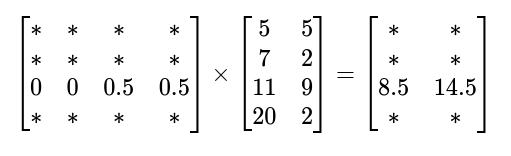
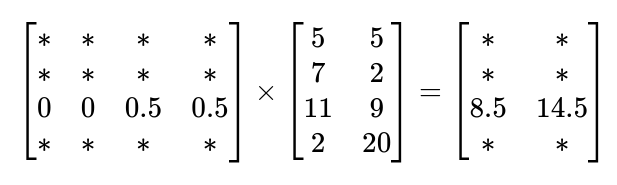
chaptre3

diff --git a/chapter3.md b/chapter3.md
@@ -25,13 +25,34 @@ The transformer's encoder is composed of many layers. In each layer, a sequence 
 1) A multi-head self-attention layer
 2) A fully connected feed-forward layer that is applied to each input embedding  
 
+<<<<<<< HEAD
 At the end of our encoder, we have output embeddings that maintain the same size as the inputs. They become more contextually aware. For example, if we refer to an "Apple phone", the word "Apple" will be updated to be more "company-like" and less "fruit-like".
 
 ![figure 2](visuals/chap3visuals/encoder.png)
 To gain a clear understanding of how it truly works, let's begin with the most important component: the self-attention layer.
 
+=======
+At the end of our encoder, we have output embeddings that maintain the same size as the inputs. They become more contextually aware. For exemple, if we refer to an "Apple phone",the word "Apple" will be updated at the end to be more "campany like" and less " fruit like".
+
+![figure 2](visuals/chap3visuals/encoder.png)
+To gain a clear understanding of how it truly works, let's begin with the first component.
+### Word Embeddings
+
+In Chapter 2, we learned that every word in our input sentence is tokenized, forming a tokens matrix of size (max_sentence_length, vocab_size). Next, we apply a pre-trained weighted matrix to the tokens matrix, transforming the tokenized text into vectors or token embeddings typically of 768 or 512 dimensions. Each dimension in these embeddings represents a distinct feature of the word, such as its fruitness.  
+
+The problem is that these new embedding vectors are completely invariant to the position of the word. Luckily, there is an easy trick to capture position information. Let's take a look.  
+
+### Positional Embeddings
+Positional embeddinds are based on a simple technique: we add to each token embedding a new vector position of equal size. This approach gives to each word its positional information within the sentence.  
+To create these vectors, we use sine and cosine functions, as illustrated below, where 'pos' represents the position of the word in the sentence, 'i' indicate the index in the vector position, and 'd_model' represents the embedding dimension.  
+There are several reasons why this method is useful: first, the periodicity of the functions helps in capturing the word's position; additionally, the output of sine and cosine falls between [-1,1], which is normalized. It won’t grow to an unmanageable numbers during calculations; furthermore, no additional training is required, as a unique representation is generated for each position.    
+
+
+![Figure 3](visuals/chap3visuals/positional_embeddings.png)   
+
+Now that we've encountered these concepts, we are ready to dive into the most important building bolck .
 ### Self-attention
-As we saw earlier, each token is individually represented by a vector of either 768 or 512 dimensions. The main idea behind self-attention is to use the entire sequence to compute a weighted average matrix that describes the relationships between each embedding and the other embeddings within the same sentence. As a result, we end up with embeddings that capture context more effectively.  
+As we saw earlier, each token is individually represented by a vector of either 768 or 512 dimensions. The main idea behind self-attention is to use the entire sequence to compute a weighted average matrix that describes the relationships between each token embedding and the other token embeddings within the same sentence. As a result, we end up with embeddings that capture context more effectively.  
 To do so, we use a technique called:
 
 #### the scaled dot product: 
@@ -45,9 +66,20 @@ There are four main steps to implement this mechanism :
 
 **2 )&nbsp;** Compute attention scores. we use the similarity function, which is the dot product of the embedding matrices. Query and Keys that are similar will have a large dot product,
 
+**1 )&nbsp;** Project each token embedding into three vectors, called:
+   - ***query :&nbsp;&nbsp;*** represents the token from which the attention mechanism is getting the information, it's used to compare against all the key vectors.
+   - ***key :&nbsp;&nbsp;***  tells the attention mechanism which parts of the sequence are important for understanding the query.  
+   - ***value :&nbsp;&nbsp;*** holds the informations (features) associated with each token in the sequence.    
+
+  At the end, we put together all the queue vectors into one matrix, and we do the same for the key and value vectors, resulting in three distinct matrices.
+  
+
+**2 )&nbsp;** Compute attention scores. we use the similarity fonction, which is the dot product of the Query and Key matrix. query and keys that are similar will have a large dot product,
+
+
  **3 )&nbsp;** To prevent dealing with large numbers, we normalize the variance of the attention scores by dividing them by the square root of the dimension of the keys  $\sqrt{d_k}$, and then we apply a softmax function to convert the column values into a probability distribution.   
 
-**4 )&nbsp;** Multiply the attention weights by the value vectors to obtain updated embeddings.
+**4 )&nbsp;** Multiply the attention weights by the Value matrix to obtain updated embeddings.
   
     
 $$
@@ -59,15 +91,15 @@ $$
 ![figure 3](visuals/chap3visuals/self-attention.png)
 #### To make it clearer, let's provide a simple example:
 
-Let's consider the following sentence: 'I love Apple iPhone.' We will represent it in a two-dimensional embedding, where the first dimension represents the fruitiness of the word, and the second represents the technology. 
+Let's consider the following sentence: 'I love Apple iPhones.' We will represent it in a two-dimensional embedding space, where the first dimension represents the fruitiness of the word, and the second represents the technology. 
 
 
-|||
-|--------------|-------------|
-| **I** | [5&emsp;5] | 
-| **Love** | [7&emsp;2] |
-| **Apple** | [11&emsp;9] |
-| **Phones** | [2&emsp;20] |
+||Fruitness|Technology|
+|--------------|-------------|-------------|
+| **I** | 5 | 5|
+| **Love** | 7 | 2 |
+| **Apple** | 11 | 9 |
+| **Phones** | 2 | 20|
 
 
 Let's now calculate the attention matrix and focus only on the word **"apple",** which was initially associated more with fruites than technology.
@@ -124,7 +156,7 @@ $$
 5 & 5 \\
 7 & 2\\
 11 & 9\\
-20 & 2 \\
+2 & 20 \\
 \end{bmatrix}=\begin{bmatrix}
 * & * \\
 * & *\\
